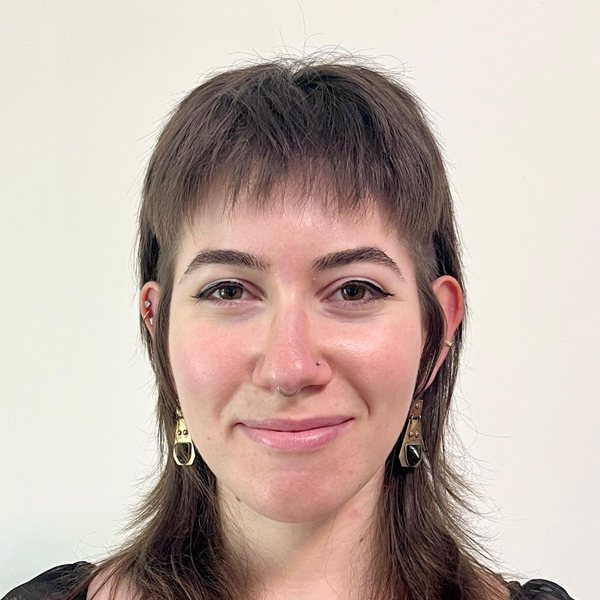
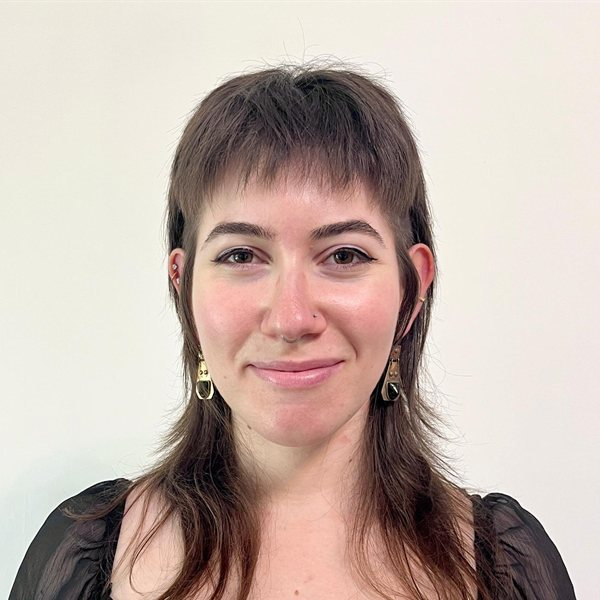
Team: zoom out and center Dana, Keren and Ahuvah photos; drop grey degree/department lines; home team strip in two even rows

diff --git a/assets/css/sobig.css b/assets/css/sobig.css
@@ -899,14 +899,16 @@ nav {
 .home-band { background: var(--white); border-top: 1px solid var(--border); border-bottom: 1px solid var(--border); }
 .home-research-grid { grid-template-columns: repeat(4, 1fr); }
 .news-card-date { font-size: 0.78rem; color: var(--text-light); margin-bottom: 6px; }
-.home-team { display: flex; flex-wrap: wrap; gap: 16px; margin-bottom: 44px; }
-.home-team-member { display: flex; flex-direction: column; align-items: center; gap: 8px; text-decoration: none; width: 88px; }
-.home-team-member img { width: 88px; height: 88px; border-radius: 50%; object-fit: cover; border: 2px solid var(--border); transition: border-color 0.15s, transform 0.15s; }
+/* Team strip: --per-row (set in home.html) photos per row, rows centred, photos grow to fill the width. */
+.home-team { --gap: 24px; display: flex; flex-wrap: wrap; justify-content: center; gap: 22px var(--gap); margin-bottom: 44px; }
+.home-team-member { display: flex; flex-direction: column; align-items: center; gap: 8px; text-decoration: none;
+  flex: 0 0 calc((100% - (var(--per-row) - 1) * var(--gap)) / var(--per-row)); min-width: 0; }
+.home-team-member img { width: 100%; max-width: 140px; height: auto; aspect-ratio: 1 / 1; border-radius: 50%; object-fit: cover; border: 2px solid var(--border); transition: border-color 0.15s, transform 0.15s; }
 .home-team-member span { font-size: 0.82rem; color: var(--text-mid); }
 .home-team-member:hover img { border-color: var(--sky); transform: translateY(-2px); }
 .home-join { margin-bottom: 0; }
 @media (max-width: 900px) { .home-research-grid { grid-template-columns: repeat(2, 1fr); } }
-@media (max-width: 560px) { .home-research-grid { grid-template-columns: 1fr; } .home-team { gap: 14px; } .home-team-member, .home-team-member img { width: 72px; } .home-team-member img { height: 72px; } }
+@media (max-width: 560px) { .home-research-grid { grid-template-columns: 1fr; } .home-team { --per-row: 4 !important; --gap: 14px; } }
 
 /* ── boxes: visible edge + soft shadow on any background ── */
 .news-card, .research-card, .facility-card, .link-card, .press-card, .topic-link {

diff --git a/_layouts/home.html b/_layouts/home.html
@@ -105,7 +105,9 @@ layout: default
       <h2 class="section-title" style="margin-bottom:0"><a href="{{ '/team/' | relative_url }}">Our Team</a></h2>
       <a href="{{ '/team/' | relative_url }}">Meet the team →</a>
     </div>
-    <div class="home-team">
+    {%- comment -%} Two even rows: half the team per row (the odd one out goes in the top row). {%- endcomment -%}
+    {% assign per_row = site.data.team.current.size | plus: 1 | divided_by: 2 %}
+    <div class="home-team" style="--per-row: {{ per_row }};">
       {% for member in site.data.team.current %}
       <a class="home-team-member" href="{{ '/team/' | relative_url }}" title="{{ member.name }}, {{ member.role }}">
         <img src="{{ member.photo | relative_url }}" alt="{{ member.name }}" loading="lazy" />
